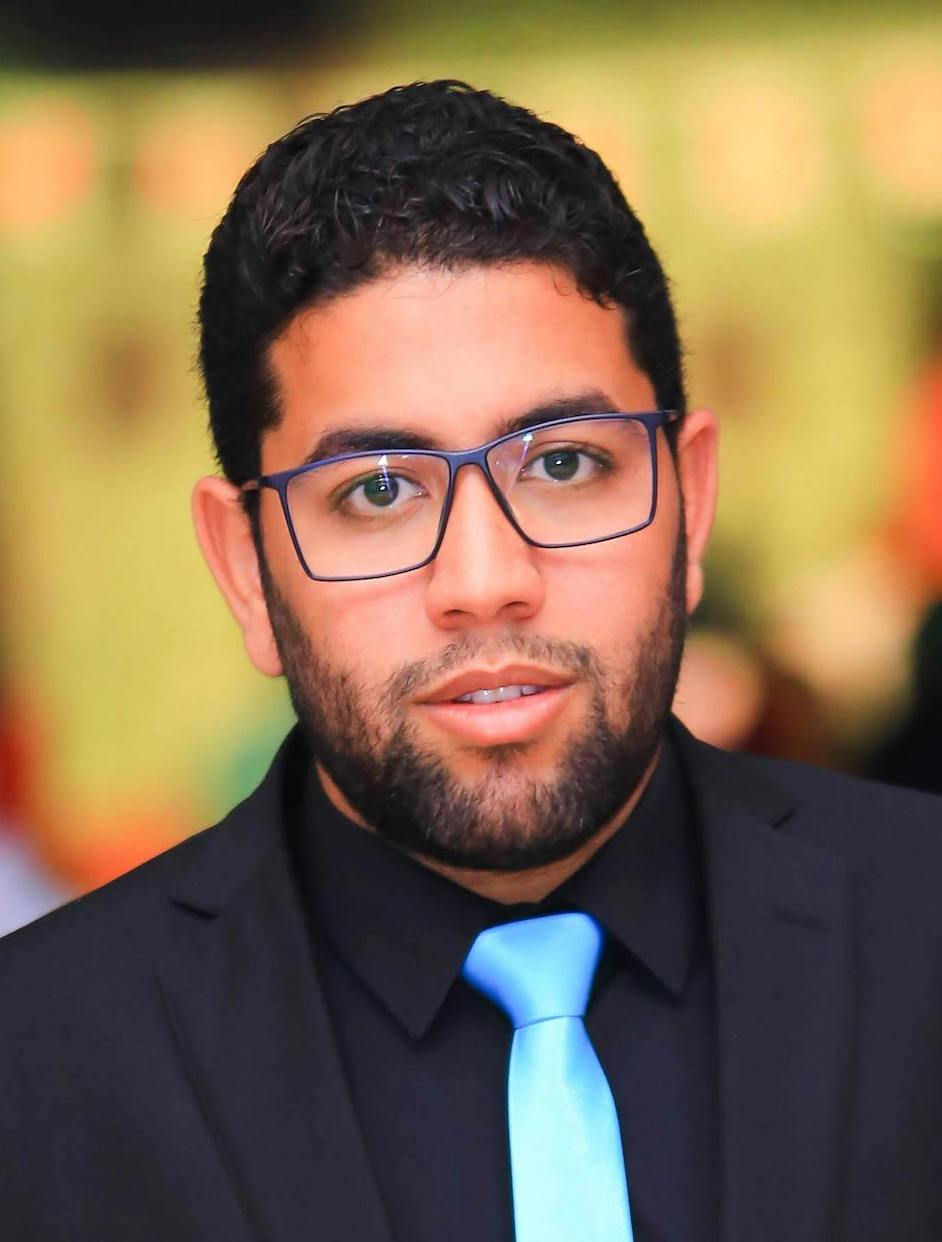
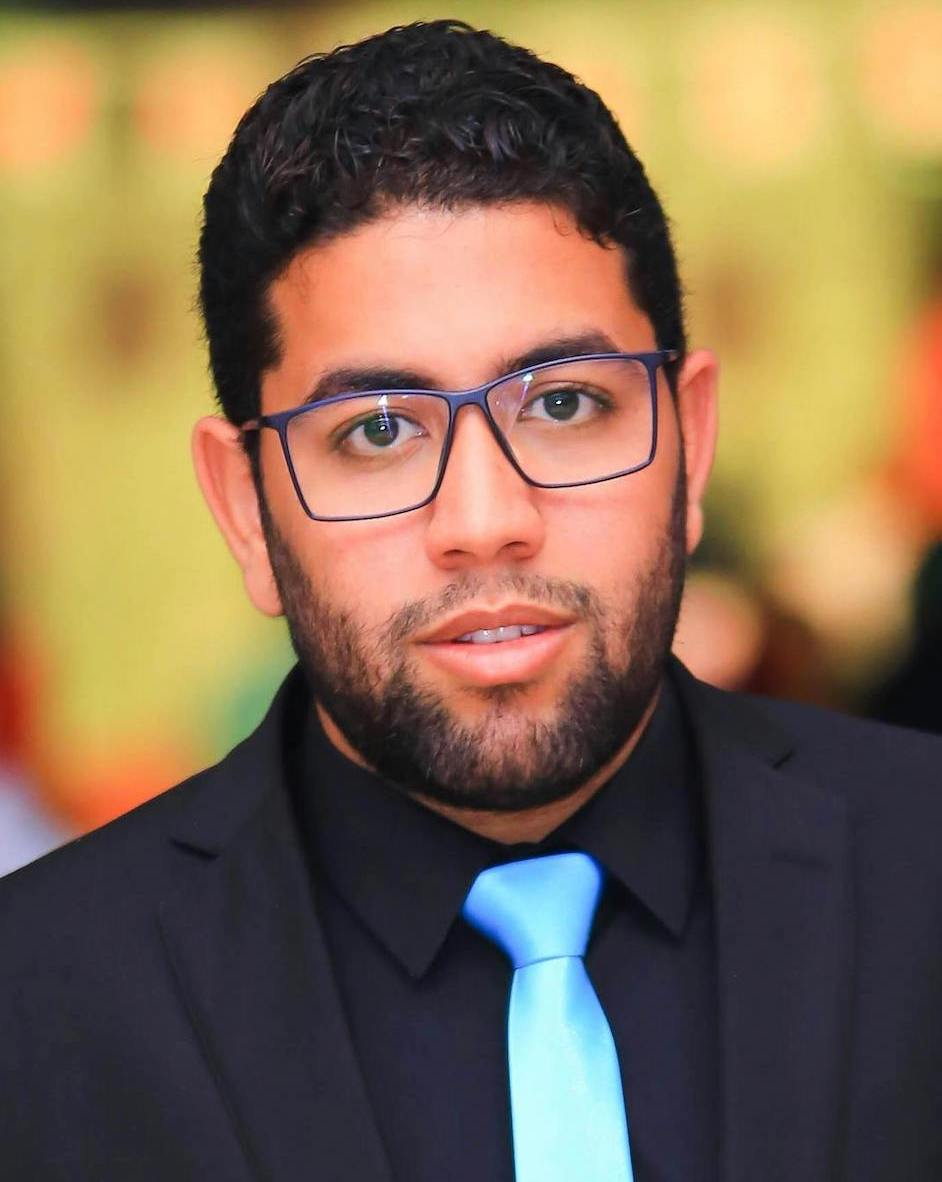
img position fixed

diff --git a/app/assets/stylesheets/pages/_topic_show.scss b/app/assets/stylesheets/pages/_topic_show.scss
@@ -54,3 +54,8 @@
   background-color: #ffc436;
   margin-top: 12px;
 }
+
+.img-object {
+  object-fit: cover;
+  object-position: 0px -80px;
+}
